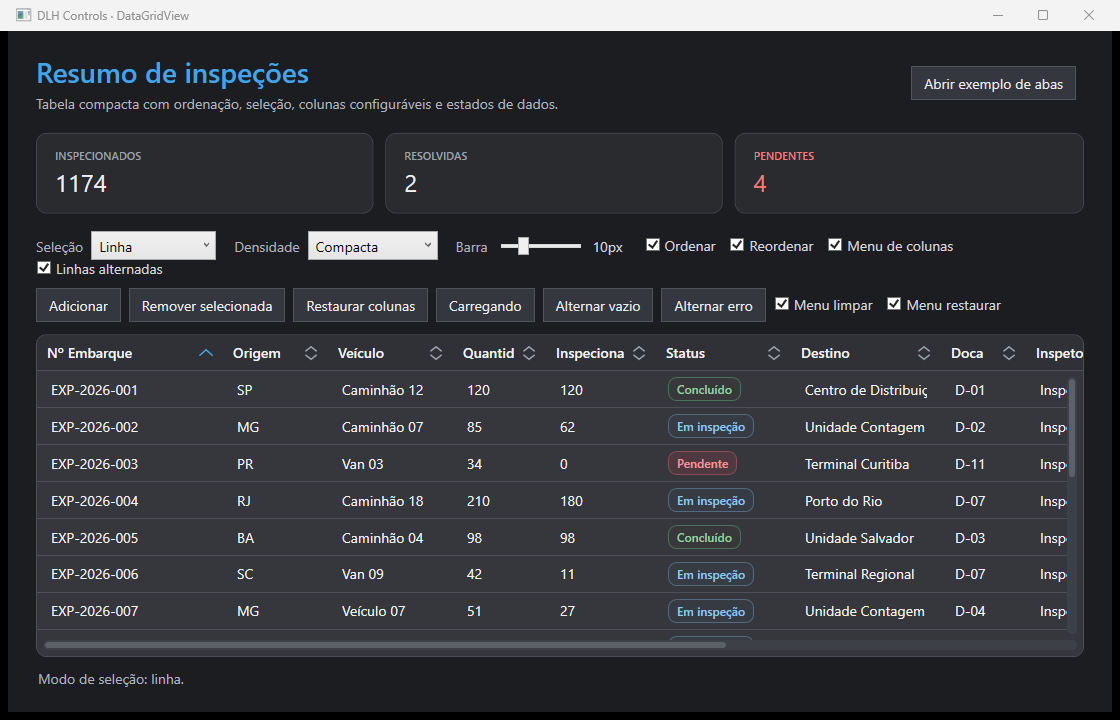
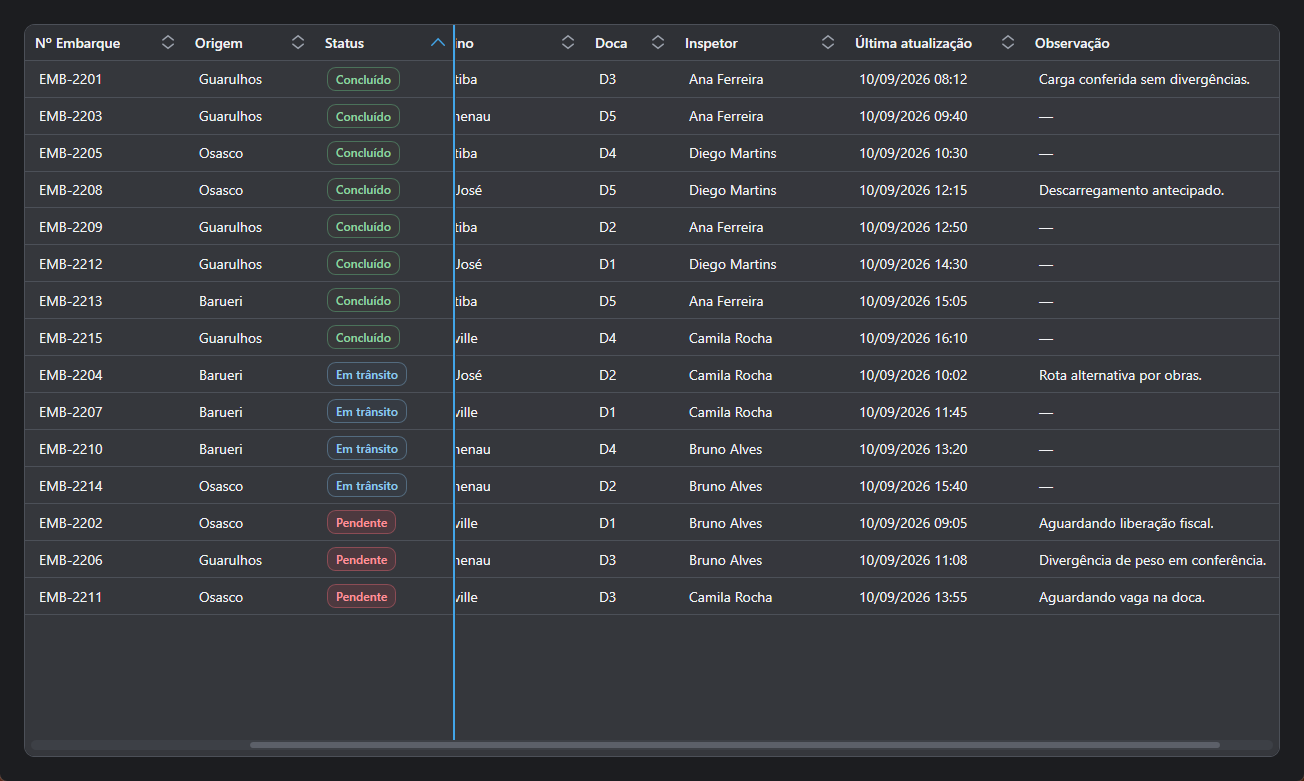
docs: replace screenshots with dedicated captures for all four controls
Capture real screenshots from the dedicated screenshot windows added
earlier (samples/DLH.Controls.Wpf.Demo/Screenshots/) instead of shipping
them without images:

- tab-control.png: the four TabStripPlacement positions, replacing the
  stale custom-tab-control.png (kept the old filename's caption, new
  content and name).
- data-grid-view.png: pinned columns (with badges) and a pinned row,
  sorted, mid-scroll to show the sticky boundary separator in action.
- scroll-bar.png (new): three color/thickness/corner-radius variants.
- context-menu.png (new): the menu open with its Export submenu also
  open, showing icons, a checked toggle and a choice item.

Fixed the screenshot windows themselves along the way: the DataGridView,
ScrollBar and ContextMenu ones weren't merging Themes/Generic.xaml, so
DataGridView rendered as an unstyled native DataGrid; and the Top/Bottom
TabControl cards had no TabSpacing, so headers ran together with no gap.

README.md, README.en.md, docs/Manual.md and docs/Manual.en.md now also
show ScrollBar and ContextMenu screenshots, which had none before.

diff --git a/samples/DLH.Controls.Wpf.Demo/Screenshots/TabControlScreenshotWindow.xaml b/samples/DLH.Controls.Wpf.Demo/Screenshots/TabControlScreenshotWindow.xaml
@@ -11,6 +11,7 @@
             <Setter Property="Background" Value="#1C1D20"/>
             <Setter Property="CornerRadius" Value="14"/>
             <Setter Property="Padding" Value="18"/>
+            <Setter Property="Margin" Value="10"/>
         </Style>
         <DataTemplate x:Key="PageContent">
             <StackPanel Margin="20">
@@ -21,7 +22,7 @@
     </Window.Resources>
     <UniformGrid Columns="2" Rows="2" Margin="24">
         <Border Style="{StaticResource Card}">
-            <dlh:TabControl TabStripPlacement="Top" CornerRadius="12" SelectedIndex="0">
+            <dlh:TabControl TabStripPlacement="Top" CornerRadius="12" TabSpacing="16" HeaderIndent="16" SelectedIndex="0">
                 <dlh:TabControlItem>
                     <dlh:TabControlItem.Header>
                         <StackPanel Orientation="Horizontal"><TextBlock Text="◈" Margin="0,0,8,0" Foreground="#42A5E8"/><TextBlock Text="Visão geral"/></StackPanel>
@@ -33,7 +34,7 @@
             </dlh:TabControl>
         </Border>
         <Border Style="{StaticResource Card}">
-            <dlh:TabControl TabStripPlacement="Bottom" CornerRadius="12" SelectedIndex="1">
+            <dlh:TabControl TabStripPlacement="Bottom" CornerRadius="12" TabSpacing="16" HeaderIndent="16" SelectedIndex="1">
                 <dlh:TabControlItem Header="Visão geral"/>
                 <dlh:TabControlItem>
                     <dlh:TabControlItem.Header>
@@ -45,7 +46,7 @@
             </dlh:TabControl>
         </Border>
         <Border Style="{StaticResource Card}">
-            <dlh:TabControl TabStripPlacement="Left" CornerRadius="12" SelectedIndex="0">
+            <dlh:TabControl TabStripPlacement="Left" CornerRadius="12" TabSpacing="8" SelectedIndex="0">
                 <dlh:TabControlItem Header="Visão geral">
                     <ContentControl Content="{Binding}" ContentTemplate="{StaticResource PageContent}" DataContext="{x:Static local:Pages.Overview}"/>
                 </dlh:TabControlItem>
@@ -54,7 +55,7 @@
             </dlh:TabControl>
         </Border>
         <Border Style="{StaticResource Card}">
-            <dlh:TabControl TabStripPlacement="Right" CornerRadius="12" SelectedIndex="2">
+            <dlh:TabControl TabStripPlacement="Right" CornerRadius="12" TabSpacing="8" SelectedIndex="2">
                 <dlh:TabControlItem Header="Visão geral"/>
                 <dlh:TabControlItem Header="Editor"/>
                 <dlh:TabControlItem Header="Config.">

diff --git a/samples/DLH.Controls.Wpf.Demo/Screenshots/ContextMenuScreenshotWindow.xaml b/samples/DLH.Controls.Wpf.Demo/Screenshots/ContextMenuScreenshotWindow.xaml
@@ -6,10 +6,15 @@
         WindowStartupLocation="CenterScreen" Background="#1C1D20" Foreground="#ECEEF2"
         FontFamily="Segoe UI" FontSize="14">
     <Window.Resources>
-        <Geometry x:Key="RefreshIcon">M2,8 A6,6 0 1 0 4,3 M4,1 L4,4 L7,4</Geometry>
-        <Geometry x:Key="DarkThemeIcon">M11,2 A6,6 0 1 0 14,12 A5,5 0 0 1 11,2</Geometry>
-        <Geometry x:Key="LightThemeIcon">M8,3 A5,5 0 1 0 8.01,3 M8,0 L8,2 M8,14 L8,16 M0,8 L2,8 M14,8 L16,8</Geometry>
-        <Geometry x:Key="SystemThemeIcon">M8,2 A6,6 0 1 0 8,14 L8,2</Geometry>
+        <ResourceDictionary>
+            <ResourceDictionary.MergedDictionaries>
+                <ResourceDictionary Source="/DLH.Controls.Wpf;component/Themes/Generic.xaml"/>
+            </ResourceDictionary.MergedDictionaries>
+            <Geometry x:Key="RefreshIcon">M2,8 A6,6 0 1 0 4,3 M4,1 L4,4 L7,4</Geometry>
+            <Geometry x:Key="DarkThemeIcon">M11,2 A6,6 0 1 0 14,12 A5,5 0 0 1 11,2</Geometry>
+            <Geometry x:Key="LightThemeIcon">M8,3 A5,5 0 1 0 8.01,3 M8,0 L8,2 M8,14 L8,16 M0,8 L2,8 M14,8 L16,8</Geometry>
+            <Geometry x:Key="SystemThemeIcon">M8,2 A6,6 0 1 0 8,14 L8,2</Geometry>
+        </ResourceDictionary>
     </Window.Resources>
     <Grid>
         <TextBlock Text="Registro selecionado" Margin="60,90,0,0" FontSize="20" FontWeight="SemiBold" Foreground="#ECEEF2" HorizontalAlignment="Left" VerticalAlignment="Top"/>

diff --git a/samples/DLH.Controls.Wpf.Demo/Screenshots/ScrollBarScreenshotWindow.xaml b/samples/DLH.Controls.Wpf.Demo/Screenshots/ScrollBarScreenshotWindow.xaml
@@ -6,6 +6,10 @@
         WindowStartupLocation="CenterScreen" Background="#1C1D20" Foreground="#ECEEF2"
         FontFamily="Segoe UI" FontSize="14">
     <Window.Resources>
+        <ResourceDictionary>
+        <ResourceDictionary.MergedDictionaries>
+            <ResourceDictionary Source="/DLH.Controls.Wpf;component/Themes/Generic.xaml"/>
+        </ResourceDictionary.MergedDictionaries>
         <Style x:Key="Card" TargetType="Border">
             <Setter Property="Background" Value="#292B2F"/>
             <Setter Property="BorderBrush" Value="#45484F"/>
@@ -17,6 +21,7 @@
             <Setter Property="Foreground" Value="#AEB3BD"/>
             <Setter Property="Margin" Value="0,0,0,14"/>
         </Style>
+        </ResourceDictionary>
     </Window.Resources>
     <Grid Margin="32">
         <Grid.ColumnDefinitions>

diff --git a/samples/DLH.Controls.Wpf.Demo/Screenshots/DataGridViewScreenshotWindow.xaml b/samples/DLH.Controls.Wpf.Demo/Screenshots/DataGridViewScreenshotWindow.xaml
@@ -5,6 +5,13 @@
         Title="DataGridView" Width="1320" Height="820" ResizeMode="NoResize"
         WindowStartupLocation="CenterScreen" Background="#1C1D20" Foreground="#ECEEF2"
         FontFamily="Segoe UI" FontSize="14">
+    <Window.Resources>
+        <ResourceDictionary>
+            <ResourceDictionary.MergedDictionaries>
+                <ResourceDictionary Source="/DLH.Controls.Wpf;component/Themes/Generic.xaml"/>
+            </ResourceDictionary.MergedDictionaries>
+        </ResourceDictionary>
+    </Window.Resources>
     <Grid Margin="24">
         <controls:DataGridView x:Name="Grid" ItemsSource="{Binding Rows}" RowKeyMemberPath="Shipment"
                                 SelectionBehavior="Row" Density="Compact" CornerRadius="10"

diff --git a/samples/DLH.Controls.Wpf.Demo/Screenshots/DataGridViewScreenshotWindow.xaml.cs b/samples/DLH.Controls.Wpf.Demo/Screenshots/DataGridViewScreenshotWindow.xaml.cs
@@ -41,10 +41,11 @@ public partial class DataGridViewScreenshotWindow : Window
         {
             Grid.PinColumn(Grid.Columns[0]);
             Grid.PinColumn(Grid.Columns[1]);
+            Grid.PinColumn(Grid.Columns[2]);
             Grid.PinRow(Rows[0]);
             var scrollViewer = (System.Windows.Controls.ScrollViewer)Grid.Template.FindName("DG_ScrollViewer", Grid)!;
-            scrollViewer.ScrollToHorizontalOffset(220);
-            scrollViewer.ScrollToVerticalOffset(90);
+            scrollViewer.ScrollToHorizontalOffset(280);
+            scrollViewer.ScrollToVerticalOffset(260);
         }, DispatcherPriority.Loaded);
     }
 }

diff --git a/README.md b/README.md
@@ -28,7 +28,7 @@ O pacote contém atualmente:
 
 O `TabControl` desenha a aba selecionada e o corpo como uma única superfície. O mesmo raio é usado nas bordas externas e nas ligações entre a aba e o conteúdo.
 
-![TabControl com abas superiores, inferiores e laterais](https://raw.githubusercontent.com/LeonardoHessel/DLH.Controls/main/docs/images/custom-tab-control.png)
+![TabControl com abas superiores, inferiores e laterais](https://raw.githubusercontent.com/LeonardoHessel/DLH.Controls/main/docs/images/tab-control.png)
 
 Ele pode ser usado com abas declaradas diretamente no XAML ou com uma coleção em `ItemsSource`. A criação, renomeação, remoção e reordenação são opcionais e vêm desativadas ou protegidas por configurações próprias.
 
@@ -39,6 +39,18 @@ O `DataGridView` especializa o `DataGrid` nativo do WPF. Ele preserva virtualiza
 ![DataGridView com ordenação, status, múltiplas colunas e barras customizadas](https://raw.githubusercontent.com/LeonardoHessel/DLH.Controls/main/docs/images/data-grid-view.png)
 
 O exemplo mostra ordenação com indicadores, status renderizado por template, menu de colunas, densidade compacta e rolagem nos dois eixos.
+
+### ScrollBar
+
+Barra de rolagem independente, usada internamente pelo `DataGridView` e disponível para qualquer conteúdo rolável, com orientação, espessura, cores, raio e sombra configuráveis.
+
+![ScrollBar em três combinações de cor, espessura e raio](https://raw.githubusercontent.com/LeonardoHessel/DLH.Controls/main/docs/images/scroll-bar.png)
+
+### ContextMenu
+
+Menu de contexto com ícones, itens marcáveis, atalhos, submenus e sombra, organizados em cinco colunas alinhadas.
+
+![ContextMenu aberto com submenu de exportação](https://raw.githubusercontent.com/LeonardoHessel/DLH.Controls/main/docs/images/context-menu.png)
 
 ## Instalação
 

diff --git a/README.en.md b/README.en.md
@@ -28,7 +28,7 @@ The package currently contains:
 
 `TabControl` draws the selected tab and the body as a single surface. The same corner radius is used on the outer edges and on the joins between the tab and the content.
 
-![TabControl with top, bottom and side tabs](https://raw.githubusercontent.com/LeonardoHessel/DLH.Controls/main/docs/images/custom-tab-control.png)
+![TabControl with top, bottom and side tabs](https://raw.githubusercontent.com/LeonardoHessel/DLH.Controls/main/docs/images/tab-control.png)
 
 It can be used with tabs declared directly in XAML or with a collection bound to `ItemsSource`. Creation, renaming, removal and reordering are optional and come disabled or protected by their own settings.
 
@@ -39,6 +39,18 @@ It can be used with tabs declared directly in XAML or with a collection bound to
 ![DataGridView with sorting, status, multiple columns and custom scrollbars](https://raw.githubusercontent.com/LeonardoHessel/DLH.Controls/main/docs/images/data-grid-view.png)
 
 The example shows sorting with indicators, status rendered by template, column menu, compact density and scrolling on both axes.
+
+### ScrollBar
+
+A standalone scrollbar, used internally by `DataGridView` and available for any scrollable content, with configurable orientation, thickness, colors, corner radius and shadow.
+
+![ScrollBar in three color, thickness and corner-radius combinations](https://raw.githubusercontent.com/LeonardoHessel/DLH.Controls/main/docs/images/scroll-bar.png)
+
+### ContextMenu
+
+A context menu with icons, checkable items, shortcuts, submenus and shadow, organized into five aligned columns.
+
+![ContextMenu open with its export submenu open](https://raw.githubusercontent.com/LeonardoHessel/DLH.Controls/main/docs/images/context-menu.png)
 
 ## Installation
 

diff --git a/docs/Manual.md b/docs/Manual.md
@@ -54,7 +54,7 @@ Os estilos padrão são carregados automaticamente. A aplicação só precisa me
 
 O `TabControl` organiza conteúdos em abas e desenha a aba selecionada e seu corpo como uma única superfície. O controle aceita tanto `TabControlItem` quanto `System.Windows.Controls.TabItem` nativo.
 
-![TabControl em diferentes posições](https://raw.githubusercontent.com/LeonardoHessel/DLH.Controls/main/docs/images/custom-tab-control.png)
+![TabControl em diferentes posições](https://raw.githubusercontent.com/LeonardoHessel/DLH.Controls/main/docs/images/tab-control.png)
 
 ### 3.1 Uso básico
 
@@ -436,6 +436,8 @@ As densidades disponíveis são `Compact`, `Default` e `Comfortable`. As barras 
 
 ## 5. ScrollBar e ContextMenu
 
+![ScrollBar em três combinações de cor, espessura e raio](https://raw.githubusercontent.com/LeonardoHessel/DLH.Controls/main/docs/images/scroll-bar.png)
+
 O `ScrollBar` pode ser usado diretamente em qualquer conteúdo rolável. `Thickness` controla sua espessura e `CornerRadius` é limitado visualmente à metade dessa medida. Cores, opacidade, sombra e botões direcionais são opcionais.
 
 ```xml
@@ -444,6 +446,8 @@ O `ScrollBar` pode ser usado diretamente em qualquer conteúdo rolável. `Thickn
                Thickness="10" CornerRadius="5"
                ShowButtons="False" />
 ```
+
+![ContextMenu aberto com submenu de exportação](https://raw.githubusercontent.com/LeonardoHessel/DLH.Controls/main/docs/images/context-menu.png)
 
 O `ContextMenu` aceita os mesmos `MenuItem`, comandos, bindings, atalhos, itens marcáveis e submenus do WPF:
 

diff --git a/docs/Manual.en.md b/docs/Manual.en.md
@@ -54,7 +54,7 @@ Default styles are loaded automatically. The application only needs to merge `Th
 
 `TabControl` organizes content into tabs and draws the selected tab and its body as a single surface. The control accepts both `TabControlItem` and the native `System.Windows.Controls.TabItem`.
 
-![TabControl in different positions](https://raw.githubusercontent.com/LeonardoHessel/DLH.Controls/main/docs/images/custom-tab-control.png)
+![TabControl in different positions](https://raw.githubusercontent.com/LeonardoHessel/DLH.Controls/main/docs/images/tab-control.png)
 
 ### 3.1 Basic usage
 
@@ -436,6 +436,8 @@ The available densities are `Compact`, `Default` and `Comfortable`. The scrollba
 
 ## 5. ScrollBar and ContextMenu
 
+![ScrollBar in three color, thickness and corner-radius combinations](https://raw.githubusercontent.com/LeonardoHessel/DLH.Controls/main/docs/images/scroll-bar.png)
+
 `ScrollBar` can be used directly on any scrollable content. `Thickness` controls its thickness, and `CornerRadius` is visually clamped to half that measurement. Colors, opacity, shadow and directional buttons are optional.
 
 ```xml
@@ -444,6 +446,8 @@ The available densities are `Compact`, `Default` and `Comfortable`. The scrollba
                Thickness="10" CornerRadius="5"
                ShowButtons="False" />
 ```
+
+![ContextMenu open with its export submenu open](https://raw.githubusercontent.com/LeonardoHessel/DLH.Controls/main/docs/images/context-menu.png)
 
 `ContextMenu` accepts the same `MenuItem`, commands, bindings, shortcuts, checkable items and submenus as WPF:
 
